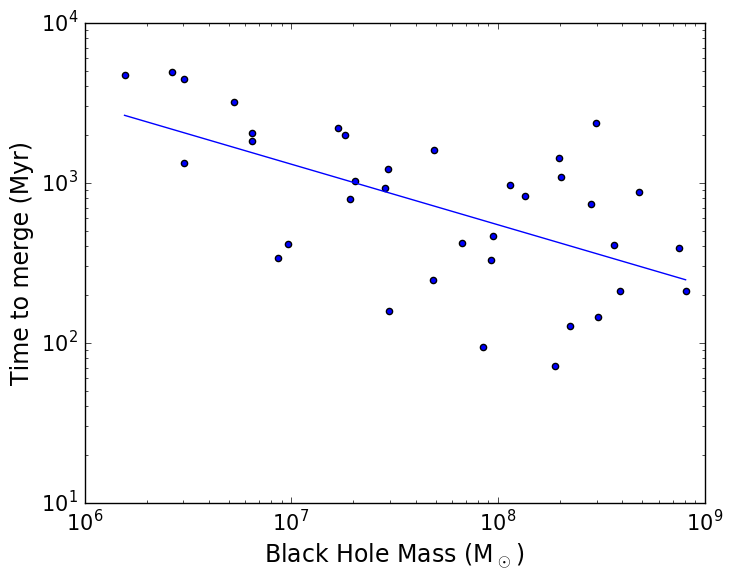
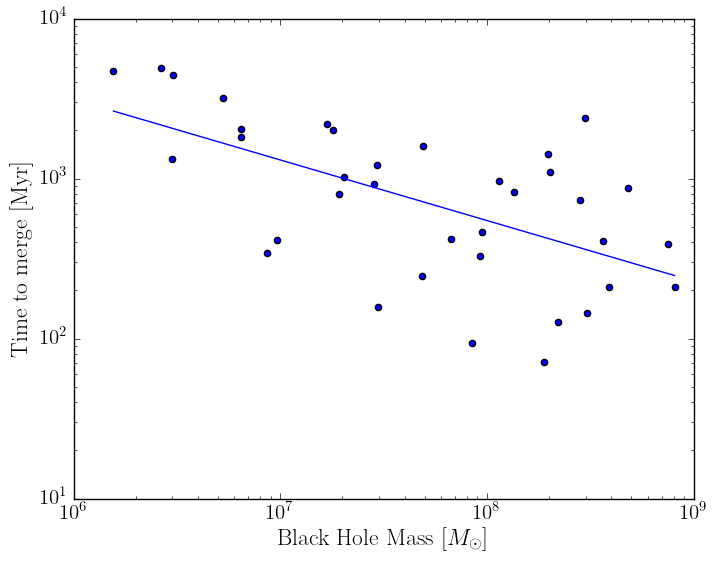
More edits throughout paper.  Standardized fonts in plots.

diff --git a/paper.tex b/paper.tex
@@ -38,6 +38,7 @@
 %\newcommand{\pcm}{\,cm$^{-2}$}	% per cm-squared
 \newcommand{\kms}{\,km\,s$^{-1}$} % kilometres per second
 \newcommand{\bibtex}{\textsc{Bib}\!\TeX} % bibtex. Not quite the correct typesetting, but close enough
+\defcitealias{2011ApJ...741...99C}{Cen+11}
 
 %%%%%%%%%%%%%%%%%%%%%%%%%%%%%%%%%%%%%%%%%%%%%%%%%%
 
@@ -89,7 +90,7 @@ $^{3}$Hubble Fellow\\
 
 
 \begin{abstract}
-We perform follow-up N-body simulations on some of the most massive galaxies extracted from a cosmological simulation of hierarchical structure formation with total masses in the range $10^{12} M_{\sun} < M < 10^{14} M_{\sun}$ from 4 $\gid$ z $\gid$ 0.  After galactic mergers, we track the dynamical evolution of the infalling black holes (BHs) around their host's central BHs.  From 11 different simulations, we find that, of the 86 infalling BHs with masses > XYZ, 36 merge with their host's central BH, 13 are ejected from their host galaxy, and 37 are still orbiting at the end of the simulations.  Across all galaxies, 33 BHs are kicked to a higher orbit after close interactions with the central BH binary or multiple, after which only one of them merged with their hosts.  These orbiting BHs should be detectable by their anomalous (not LMXRB) spectra.  The x-ray luminosities of the orbiting massive BHs at z=0 are in the range $10^{25}-10^{43}$ $erg\ s^{-1}$, with an undetectable median value $10^{32}$ $erg\ s^{-1}$.  However, the most luminous $\sim$$5\%$ should be detectable by existing x-ray facilities.
+We perform follow-up N-body simulations on some of the most massive galaxies extracted from a cosmological simulation of hierarchical structure formation with total masses in the range $10^{12} M_{\sun} < M < 3\times 10^{13} M_{\sun}$ from $4\geq z \geq 0$.  After galactic mergers, we track the dynamical evolution of the infalling black holes (BHs) around their host's central BHs.  From 11 different simulations, we find that, of the 86 infalling BHs with masses > $10^4 M_{\sun}$, 36 merge with their host's central BH, 13 are ejected from their host galaxy, and 37 are still orbiting at $z=0$.  Across all galaxies, 33 BHs are kicked to a higher orbit after close interactions with the central BH binary or multiple, after which only one of them merged with their hosts.  These orbiting BHs should be detectable by their anomalous (not LMXRB) spectra.  The X-ray luminosities of the orbiting massive BHs at z=0 are in the range $10^{27}-10^{43}$ $\mathrm{erg}~\mathrm{s}^{-1}$, with an undetectable median value $10^{32}$ $\mathrm{erg}~\mathrm{s}^{-1}$.  However, the most luminous $\sim$5\% should be detectable by existing X-ray facilities.
 \end{abstract}
 
 
@@ -101,17 +102,17 @@ Galaxy: kinematics and dynamics
 
 
 \section{Introduction}\label{sec:introduction}
-Simulations of structure formation in a $\Lambda$CDM universe show us how the massive galaxies we see today were formed through a myriad of minor and major mergers between (proto) galaxies. As most galaxies are believed to contain central massive black holes even at high redshifts, each of these mergers sets the stage for a potential encounter between supermassive black holes. Here we are going to investigate what happened to those black holes over a timeframe of billions of years.
+Simulations of structure formation in a $\Lambda$CDM universe show us how the massive galaxies we see today were formed through a myriad of minor and major mergers between (proto) galaxies. As most galaxies are believed to contain central massive black holes even at high redshifts, each of these mergers set the stage for a potential encounter between massive black holes. Here we investigate what happened to those black holes over a timeframe of billions of years.
 
-What are possible outcomes for massive black holes during galaxy mergers?  There are three possibilities: they merge with the central massive black hole of the galaxy, they get ejected, or they remain in orbit in the merged galaxy.  Combinations of these options are also possible with the spin induced kick at merger leading to an ejection or extended orbit of the merged black hole.  We now know from pulsar timing measurements (\citet{2008MNRAS.390..192S}, \citet{2018ApJ...856...42S}, \citet{2016APS..APRR18003T}) that the gravitational wave background is probably too low for most galaxy mergers (mass-weighted) (but see \cite{2018NatCo...9..573M}) to lead to BH mergers, but the outcome remains uncertain.  We will argue in this paper that a very common outcome--especially for the lower mass black holes--is for the injected objects to remain as orbiting X-ray sources in normal massive galaxies waiting to be identified by current observational techniques.
+What are possible outcomes for massive black holes during galaxy mergers?  There are three possibilities: they merge or form a binary with the central massive black hole of their new host galaxy, they get ejected through three-body interactions with an existing central black-hole binary, or they remain in orbit in the merged galaxy.  Combinations of these options are also possible with, e.g., the (spin-induced) kick at merger leading to an ejection or extended orbit of the merged black hole. We will argue in this paper that a very common outcome -- especially for lower-mass black holes -- is for the injected BHs to remain as orbiting X-ray sources in their host galaxies, waiting to be identified by current observational techniques. (check if X-1 and X-2 in NGC 1313 are candidates for such objects see https://arxiv.org/pdf/astro-ph/0608066.pdf )
 
-There is no "final parsec problem," and the opposite problem of too many BH mergers is also avoided when it is realized that we are dealing with a small N-body system rather than a series of two-body problems (cf \citealt{2018MNRAS.473.3410R}).
+But how common are encounters of massive black holes?  For galaxies, we know that minor mergers are frequent from the observed evolution of the size and mass of these systems \citep{2010ApJ...718L..73V, 2008ApJ...677L...5V, 2019MNRAS.484..595M}. However, if we assume that all galaxy mergers lead to SMBH mergers we end up overpredicting the  gravitational wave background, as constrained by observations from pulsar timing arrays (PTAs, see \citealt{2008MNRAS.390..192S, 2009MNRAS.394.2255S, 2013MNRAS.433L...1S, 2014ApJ...789..156M, 2015ApJ...799..178K, 2016APS..APRR18003T, 2018ApJ...856...42S, 2018MNRAS.479.4017I, 2018ApJ...863L..36I, 2018NatCo...9..573M}). In fact, dynamical studies of black hole encounters have shown that most encounters between two supermassive black holes will result in a stalling binary, unable to get close enough for gravitational wave emission to drive the merger (cite some papers from David Meritt here).
 
-How common are mergers of massive black holes?  For the galaxies themselves we know that minor mergers are frequent from the observed (\citet{2010ApJ...718L..73V}, \citet{2008ApJ...677L...5V}, \citet{2019MNRAS.484..595M}) evolution of the size and mass of these systems, but assuming that all galaxy mergers lead to SMBH mergers overpredicts the observations of gravitational waves from the pulsar timing arrays (PTAs) (\citet{2008MNRAS.390..192S}, \citet{2009MNRAS.394.2255S}, \citet{2013MNRAS.433L...1S}, \citet{2014ApJ...789..156M}, \citet{2015ApJ...799..178K}, \citet{2018ApJ...856...42S}, \citet{2018MNRAS.479.4017I}, \citet{2018ApJ...863L..36I}).  However, we do not often see multiple SMBHs at the centers of massive ellipticals (but see \citet{2016MNRAS.463.2145C}).  So, what does happen?  One paper (\citet{2018MNRAS.473.3410R}) has indicated that dynamical interactions among multiple orbiting black holes, which will eject a non-negligible fraction of the mass, may solve this problem.  The present paper also addresses this purported dynamical solution, focusing attention on the large fraction of lower mass black holes that remain to be detected as they orbit in massive galaxies.  What we argue in this paper is that, as a result of the N-body interactions among the infalling black holes, some are ejected, some remain in extended orbits and some (the few most massive ones) do in fact merge, but these do not exceed the PTA limits, and some of the orbiting ones might be detectable via their ability to accrete gas and emit radiation.
+However, we do not often see SMBH binaries at the centers of massive ellipticals (but see \citealt{2016MNRAS.463.2145C}).  So, what does happen?  \cite{2018MNRAS.473.3410R} indicate that dynamical interactions among multiple orbiting black holes, which will eject a non-negligible fraction of the mass, may solve this problem.  The present paper also addresses this purported dynamical solution, focusing attention on the large fraction of lower-mass black holes that remain to be detected as they orbit in massive galaxies.  We argue that, as a result of few-body interactions among the resident and infalling black holes, some are ejected, some remain in extended orbits, and some (the few most massive ones) do in fact merge. The merger rates we find do not exceed the PTA limits, and some of the orbiting BHs that our simulations predict to exist may actually be detectable via their ability to accrete gas and emit radiation.
 
-Here we look at the merger history of 11 exemplary galaxies across the galaxy mass spectrum extracted from a cosmological simulation of hierarchical structure formation. We investigate how, after merging with incoming galaxies, SMBHs sink into the cores of the hosts and interact with the resident black hole. We show that gravitational interactions of multiple SMBHs are most probable in high-mass galaxies with total mass $10^{12} M_{\sun} < M < 10^{13} M_{\sun}$. Galaxies with lower masses have too few mergers with SMBH hosting galaxies. Galaxies with higher masses are more extended, making dynamical friction processes less efficient and hence failing to drive SMBHs into the host galaxy core.
+For this study, we look at the merger history of 11 exemplary galaxies across the galaxy mass spectrum extracted from a cosmological simulation of hierarchical structure formation. We investigate how, after merging with incoming galaxies, SMBHs sink into the cores of the hosts and interact with the resident black hole. We show that gravitational interactions of multiple SMBHs are most probable in high-mass galaxies with total mass $10^{12} M_{\sun} < M < 3\times10^{13} M_{\sun}$. Galaxies with lower masses have too few mergers with SMBH hosting galaxies. Galaxies with higher masses are more extended, making dynamical friction processes less efficient and hence failing to drive SMBHs into the host galaxy core.
 
-This paper is organized as follows: in Section \ref{sec:methods} we describe the cosmological simulations from which we use the merger history to set up our idealized numerical simulations. We present the few-body integration code, \textsc{AR-Chain} that we used for our simulations of SMBH dynamics, and the modifications we made to this code in order to deal with a host galaxy's gravitational potential. In Section \ref{sec:results}, we show the results of our 11 exemplary simulations of galaxies growing with time and acquiring new SMBHs. We analyze how the SMBHs spiral into the core of their new host galaxies due to dynamical friction, and how interactions with the host black hole and other orbiting BHs leads to near-ejections or mergers. We then estimate the X-ray luminosities expected of the orbiting black holes.  The final Section \ref{sec:conclusions} contains a discussion of the results and our conclusions.
+This paper is organized as follows: in Section\,\ref{sec:methods} we describe the cosmological simulations from which we use the merger history to set up our idealized numerical simulations. We present the few-body integration code, \textsc{AR-Chain} that we used for our simulations of SMBH dynamics, and the modifications we made to this code in order to deal with a host galaxy's gravitational potential. In Section\,\ref{sec:results}, we show the results of our 11 exemplary simulations of galaxies growing with time and acquiring new SMBHs. We analyze how the SMBHs spiral into the core of their new host galaxies due to dynamical friction, and how interactions with the host black hole and other orbiting BHs leads to near-ejections or mergers. We then estimate the X-ray luminosities expected of the orbiting black holes.  The final Section\,\ref{sec:conclusions} contains a discussion of the results and our conclusions.
 
 \section{Methods}\label{sec:methods}
 %\begin{figure}
@@ -126,59 +127,59 @@ This paper is organized as follows: in Section \ref{sec:methods} we describe the
 %\end{figure*}
 
 \subsection{Overview of simulation}
-Our simulations focus on elliptical galaxies with central SMBHs. The galaxies were given a dark matter background potential using the Stone-Ostriker profile (\citet{2015ApJ...806L..28S}), which is a three-parameter potential-density pair, whose quantities such as density, potential, and binding energy can be written in closed form, having a profile similar to that of a truncated isothermal sphere.  The galaxies were evolved from $4 > z > 0$.  Orbiting black holes were periodically introduced into the "host" galaxy following mergers and their dynamical interaction with the background potential and central SMBH were followed, as described further below.
+Our simulations focus on elliptical galaxies with central SMBHs. The galaxies were given a dark matter background potential using the Stone-Ostriker profile (\citet{2015ApJ...806L..28S}), which is a three-parameter potential-density pair, whose quantities such as density, potential, and binding energy can be written in closed form, having a profile similar to that of a truncated isothermal sphere.  The galaxies were evolved from $4\geq z \geq 0$.  Orbiting black holes were periodically introduced into the "host" galaxy following mergers and their dynamical interaction with the background potential and central SMBH were followed, as described further below.
 
 For the numerical simulations presented here, we used a modified version of the algorithmic chain integrator \textsc{AR-Chain} developed by \citet{2006MNRAS.372..219M}. It uses algorithmic chain regularization for high-precision integration of few-body dynamics, and is capable of handling velocity-dependent forces efficiently. It includes relativistic post-Newtonian terms up to order PN2.5 \citep{2008AJ....135.2398M}.
 
 
 \subsection{Merger tree Data}
-The merger tree data that was used as the input to our simulations is the result of previous work by \citet{2011ApJ...741...99C, 2011ApJ...742L..33C, 2012ApJ...753...17C, 2012ApJ...748..121C, 2013ApJ...770..139C} (hereafter Cen(+11) and known as the LAOZI simulations \citet{2014ApJ...781...38C}), as well as  \citet{2012MNRAS.425..641L} (hereafter Lackner(+12)), and \citet{2015ApJ...799..178K} (hereafter Kulier(+15)).  A brief synopsis of the work that led to our input data is described below.
+The merger tree data that was used as the input to our simulations is the result of previous work by \citet{2011ApJ...741...99C, 2011ApJ...742L..33C, 2012ApJ...753...17C, 2012ApJ...748..121C, 2013ApJ...770..139C}  (known as the LAOZI simulations \citet{2014ApJ...781...38C}), as well as  \citet{2012MNRAS.425..641L}, and \citet{2015ApJ...799..178K}.  A brief synopsis of the work that led to our input data is described below.
 
-Cen(+11) studied the "cosmic downsizing" effect (e.g., \citet{1996AJ....112..839C}) using high-resolution large-scale hydrodynamic galaxy formation simulations.  His work produced physical parameters for galaxies such as position, velocity, total mass, stellar mass, gas mass, mean formation time, mean stellar metallicity, mean gas metallicity, SFR, luminosities, etc.
+\citet{2011ApJ...741...99C} studied the "cosmic downsizing" effect (e.g., \citet{1996AJ....112..839C}) using high-resolution large-scale hydrodynamic galaxy formation simulations.  His work produced physical parameters for galaxies such as position, velocity, total mass, stellar mass, gas mass, mean formation time, mean stellar metallicity, mean gas metallicity, star formation rate, luminosities, etc.
 
-Lackner(+12), using Cen(+11)'s work as a basis, created galactic merger trees that compared the properties of in situ and accreted stellar mass of galaxies at redshift snapshots between $4 > z > 0$.
+\citet{2012MNRAS.425..641L}, using \citet{2011ApJ...741...99C}'s work as a basis, created galactic merger trees that compared the properties of in situ and accreted stellar mass of galaxies at redshift snapshots between $4 > z > 0$.
 
-Kulier(+15) furthered the merger tree data produced by Lackner(+12) by estimating the evolution of the SMBH population, based on assumptions about the relationship between the properties of SMBHs and those of their host galaxies.
+\citet{2015ApJ...799..178K} furthered the merger tree data produced by \citet{2012MNRAS.425..641L} by estimating the evolution of the SMBH population, based on assumptions about the relationship between the properties of SMBHs and those of their host galaxies.
 
 The primary data we extracted from the above work was organized as follows:
 \begin{itemize}
-    \item Galactic properties - Each galaxy was distinguished by an id number, with properties such as stellar mass, dark matter mass, central black hole id number, and orbiting black hole id numbers, recorded at 37 redshift slices between $4 > z > 0$.
+    \item Galactic properties - Each galaxy was distinguished by an id number, with properties such as stellar mass, dark matter (DM) mass, central black hole id number, and orbiting black hole id numbers, recorded at 37 redshift slices between $4 > z > 0$.
     \item Black Hole properties - Each black hole was also distinguished by an id number, with properties such as seed mass, accreted mass, its host galaxy id number, and time after $z=4$ at which the black hole entered its host galaxy, if it was not the central black hole.
 \end{itemize}
 
-The merger tree data from Lackner(+12) and Kulier\-(+15) provided 1,830 galaxies in total.  However, not all the galaxies were suitable for our simulations.  We placed further requirements as follows:
+The merger tree data from \citet{2012MNRAS.425..641L} and \citet{2015ApJ...799..178K} provided 1,830 galaxies in total.  However, not all the galaxies were suitable for our simulations.  We placed further requirements as follows:
 \begin{itemize}
-\item The galaxies had to exist through the entire simulation ($4 > z > 0$).  If they merged with other galaxies, they had to have been the "surviving" galaxy at each merger.
+\item The galaxies had to exist through the entire simulation ($4\geq z \geq 0$).  If they merged with other galaxies, they had to have been the "surviving" galaxy at each merger.
 \item They had to have accumulated orbiting black holes by $z = 0$.
 \end{itemize}
 
-The above criteria narrowed the field of eligible galaxies down to 51.  In considering time and resources, we chose the top 13 galaxies in terms of number of black holes to run the simulations.  The black holes in these galaxies accounted for nearly $84{\%}$ of all orbiting black holes across all the galaxies, so it represented a reasonable balance between completeness and efficiency.
+The above criteria narrowed the field of eligible galaxies down to 51.  In considering time and resources, we chose the 13 galaxies that had the largest number black holes to run the simulations.  The black holes in these galaxies accounted for nearly $84{\%}$ of all orbiting black holes across all the galaxies, so it represented a reasonable balance between completeness and efficiency.
 
-The following cosmological parameters were used in our simulations, consistent with both Lackner(+12) and Kulier(+15):   $\Omega_M = 0.28$, $\Omega_b = 0.046$, $\Omega_\Lambda = 0.72$, $\sigma_8 = 0.82$, $H_0 = 100h^{-1}Mpc^{-1} = 70 km s^{-1} Mpc^{-1}$, and $n = 0.96$.
+The following cosmological parameters were used in our simulations, consistent with both \citet{2012MNRAS.425..641L} and \citet{2015ApJ...799..178K}:   $\Omega_M = 0.28$, $\Omega_b = 0.046$, $\Omega_\Lambda = 0.72$, $\sigma_8 = 0.82$, $H_0 = 100h^{-1}\mathrm{Mpc}^{-1} = 70 \mathrm{km}\;\mathrm{s}^{-1} \mathrm{Mpc}^{-1}$, and $n = 0.96$.
 
 \subsubsection{Stellar Mass Adjustment}
-As we will explain further in Section \ref{Galaxy background potential}, in our simulations orbiting black holes are inserted into the host galaxy at the effective radius, $R_e$, which is partially dependent on stellar mass, $M_*$ (see equation \ref{re}).  For every doubling of the stellar mass, $M_*$, $R_e$ increases by a factor of 1.66.  Additionally, the velocity dispersion at the effective radius, $\sigma(R_e)$, which is used to set the parameter $r_h$ of our dark matter profile, is also dependent on $M_*$.  In this case, a doubling of $M_*$ would increase $\sigma(R_e)$ by a factor of 1.15.  These variations have direct effects on the ability of the orbiting black holes to merge with the central black hole, and thus can affect our merger statistics and resulting characteristic strain calculations, and therefore it is important to estimate our stellar masses with reasonable accuracy.
+As we will explain further in Section \ref{Galaxy background potential}, in our simulations orbiting black holes are inserted into the host galaxy at the effective radius, $R_e$, which is partially dependent on stellar mass, $M_*$ (see Eqn. \ref{re}).  For every doubling of the stellar mass, $R_e$ increases by a factor of 1.66.  Additionally, the velocity dispersion at the effective radius, $\sigma(R_e)$, which is used to set the parameter $r_h$ (see Eqn. \ref{jerry}) of our dark matter profile, is also dependent on $M_*$.  In this case, a doubling of $M_*$ would increase $\sigma(R_e)$ by a factor of 1.15.  These variations have direct effects on the ability of the orbiting black holes to merge with the central black hole, and thus can affect our merger statistics and resulting characteristic strain calculations, and therefore it is important to estimate our stellar masses with reasonable accuracy.
 
 In cosmological simulations it is common to overproduce stellar mass, with a general over-efficiency in the range of 2-4 times those measured in observations (\citet{1996ApJS..105...19K}, \citet{2010MNRAS.404.1111G}, \citet{2010ApJ...725.2312O}).  One typical reason cited for this overproduction is a lack or underestimation of supernova feedback effects in the form of thermal and/or kinetic energy.  However, even when thermal energy from supernova feedback is considered, the effects may be reduced due to the energy being quickly radiated away by rapidly cooling surrounding gas (\citet{1996ApJS..105...19K}).  A second common reason for overproduction of stars in cosmological simulations is a lack of modeling for AGN feedback, which may be responsible for solving the phenomenon called the "cooling flow paradox" (\citet{2001MNRAS.321L..20F}) that suppresses star formation. 
 
-Lackner(+12), which is the source of our stellar masses, noted that the efficiency of star formation in their simulations, defined as $f_*=M_*/M_{DM}(\Omega_{DM}/\Omega_b)$, was approximately 0.6.  Compared with the expected range of $0.10 \loa f_* \loa 0.15$ that they referenced from \citet{2012ApJ...746...95L}, their stellar masses were a factor of roughly 4 times greater.
+\citet{2012MNRAS.425..641L}, which is the source of our stellar masses, noted that the efficiency of star formation in their simulations, defined as $f_\mathrm{bary}=M_*/M_{\mathrm{DM}}(\Omega_\mathrm{DM}/\Omega_\mathrm{b})$ (where $M_\mathrm{DM}$ is the mass of the dark matter halo), was approximately 0.6.  Compared with the expected range of $0.10 \loa f_\mathrm{bary} \loa 0.15$ that they referenced from \citet{2012ApJ...746...95L}, their stellar masses were a factor of roughly 4 times greater.
 
-We also compared the stellar masses from Lackner\-(+12) to  observational and abundance matching data from \citet{2018AstL...44....8K}. Figure \ref{fig:stellar1} is a partial, approximate, replication of their Figure 11 (abundance matching line).  We rescaled our stellar masses at $z=0$ in a lognormal manner about the line in order to match the observed data.  Table \ref{table:gal_char} shows the original and rescaled stellar masses.
+We also compared the stellar masses from \citet{2012MNRAS.425..641L} to  observational and abundance matching data from \citet{2018AstL...44....8K}. Figure \ref{fig:stellar1} is a partial, approximate, replication of their Figure 11 (abundance matching line).  We rescaled our stellar masses at $z=0$ in a lognormal manner about the line in order to match the observed data.  Table \ref{table:gal_char} shows the original and rescaled stellar masses.
 
 \begin{figure}
 %\begin{center}
 \includegraphics[width=0.5\textwidth]{plots/stellar_to_halo_ratio.png}
-\caption{Approximation of Figure 11 from \citet{2018AstL...44....8K}.  Purple dots shown are examples of our rescaled stellar masses}
+\caption{Approximation of Figure 11 from \citet{2018AstL...44....8K}.  $f_\mathrm{bary}$ is the universal baryon fraction as a function of total halo mass.  Purple dots shown are examples of our rescaled stellar masses}
 \label{fig:stellar1}
 %\end{center}
 \end{figure}
 
 \begin{table}
 \begin{center}
-\caption{Galaxy characteristics at z=0. Units are M$\sun$.}
+\caption{Galaxy characteristics at z=0. $M_\mathrm{DM}$ is dark matter mass.  $M_\mathrm{CBH}$ is central black hole mass.  Units are $M_{\odot}$.}
 \begin{tabular} {|c | c | c| c|}
 \hline
-$M_{DM}$ & $M_{CBH}$ & $M_{*} (orig.)$ & $M_{*} (rescaled)$ \\
+$M_\mathrm{DM}$ & $M_\mathrm{CBH}$ & $M_{*} \mathrm{(orig.)}$ & $M_{*} \mathrm{(rescaled)}$ \\
 \hline
  2.85 $\times 10^{13}$ 	&	 1.46 $\times 10^9$	&	5.58 $\times 10^{12}$ 	&	3.30 $\times 10^{11}$  \\
  2.48 $\times 10^{13}$ 	&	 2.40 $\times 10^9$	&	4.80 $\times 10^{12}$ 	&	2.25 $\times 10^{11}$  \\
@@ -209,19 +210,18 @@ Here $\rho_c$ is the central density, $r_c$ is the core radius, and $r_h$ is the
 
 In order to parameterize this profile, $r_c$ was given an initial value of 100 pc, which is reasonable for a cored massive system.  To calculate $r_h$, we began by using the stellar mass to calculate the velocity dispersion at the galaxy's effective radius.  In \citet{2014ApJ...789..156M}, the galaxy's effective radius $R_{e}$ and velocity dispersion $\sigma(R_e)$ at the effective radius are:
 \begin{equation} \label{re}
-R_{e} = 2.5 kpc\left(\frac{M_*}{10^{11}M_{\odot}}\right)^{0.73}(1+z)^{-0.98},
+R_{e} = 2.5 \mathrm{kpc}\left(\frac{M_*}{10^{11}M_{\odot}}\right)^{0.73}(1+z)^{-0.98},
 \end{equation}
 \begin{equation} \label{sig}
-\sigma(R_{e}) = 190km/s\left(\frac{M_{*}}{10^{11}M_{\odot}}\right)^{0.2}(1+z)^{0.47},
+\sigma(R_{e}) = 190\mathrm{km}\;\mathrm{s}^{-1}\left(\frac{M_{*}}{10^{11}M_{\odot}}\right)^{0.2}(1+z)^{0.47},
 \end{equation}
 
-We can then equate the value for $\sigma({R_e})$ obtained from Equation \ref{sig} to the analytic expressions for $\sigma(R_{e})$ in the Stone-Ostriker profile (Eqns 9 and A1-A4).  The only unknown is $r_h$, which we can solve for using a simple recursive Newton method.  Whether $\sigma_{near}$ or $\sigma_{far}$ is used from Stone-Ostriker is determined by whether $R_e$ is less than or greater than $\sqrt{r_c r_h}$.
+We can then equate the value for $\sigma({R_e})$ obtained from Equation \ref{sig} to the analytic expressions for $\sigma$ in the Stone-Ostriker profile (cf. Eqns 9 and A1-A4).  The only unknown is $r_h$, which we can solve for using a simple recursive Newton method.  Whether $\sigma_{near}$ or $\sigma_{far}$ is used from Stone-Ostriker is determined by whether $R_e$ is less than or greater than $\sqrt{r_c r_h}$.
 
 The central density, $\rho_c$, can be found from Equation 5 in Stone-Ostriker:
 \begin{equation} \label{rhoc}
-M_{tot} = \frac{2\pi^2r_{c}^2r_{h}^2\rho_c}{r_h+r_c},
+M_\mathrm{DM} = \frac{2\pi^2r_{c}^2r_{h}^2\rho_c}{r_h+r_c}.
 \end{equation}
-where $M_{tot}$ is the total dark matter mass.
 
 At each iteration in the code, $r_h$ is updated according to the stellar mass and Equations \ref{re} and \ref{sig}.  The core radius, $r_c$, is recalculated only if an orbiting black hole enters within $r_c$.  The work done by diffusion, as described in Section \ref{psd} is calculated, the total potential energy and dynamical friction are updated, and $r_c$ is solved for from Equation 8 in Stone-Ostriker based on conservation of energy.
 
@@ -266,7 +266,7 @@ a_{new} = a\left(1+\frac{32a\,\mbox{d}W}{3\pi GM_{NSC}^2}\right)^{-1}.
 \end{equation}
 
 \subsubsection{Gravitational wave recoils}
-The code \textsc{AR-Chain} includes post-Newtonian terms up to order 2.5. The SMBHs can therefore merge via gravitational wave emission. We include gravitational wave recoils following the prescription outlined in Kulier(+15), which is based on the fitting formula by \citet{2012PhRvD..85h4015L}.  We assume that a merger will be inevitable when the separation between two SMBHs becomes smaller than 1.0x the Schwarzschild radius. At the moment of the merger, we also assume that the spin vectors of the two SBHs are randomly aligned.
+The code \textsc{AR-Chain} includes post-Newtonian terms up to order 2.5. The SMBHs can therefore merge via gravitational wave emission. We include gravitational wave recoils following the prescription outlined in \citet{2015ApJ...799..178K}, which is based on the fitting formula by \citet{2012PhRvD..85h4015L}.  We assume that a merger will be inevitable when the separation between two SMBHs becomes smaller than 1.0x the Schwarzschild radius. At the moment of the merger, we also assume that the spin vectors of the two SBHs are randomly aligned.
 
 A result of the anisotropic emission of gravitational waves is that the merged binary often experiences a linear kick in the opposite direction of the emission of the GW due to conservation of linear momentum. This kick can result in velocities of the merged binary from approximately $200-5000\ km s^{-1}$ (see \citet{2007PhRvL..98w1101G}, \citet{2007PhRvL..98i1101G}, \citet{2007PhRvL..98w1102C}, \citet{2011PhRvL.107w1102L}).  In our simulations, the binaries never stray more than a few tens of parsecs from the nucleus of the host galaxies.
 
@@ -275,7 +275,7 @@ Black holes can also eject each other via strong three-body interactions. We rem
 \subsection{Simulation setup}
 For each galaxy in the simulations, we only used black holes that would theoretically have merged with the center of the host galaxy within a dynamical friction time, $t_{fric}$, of less than 100 times a Hubble time, with $t_{fric}$ defined from \citet{2008gady.book.....B} as:
 \begin{equation}\label{tfric}
-    t_{fric} = \frac{19}{6}\left(\frac{R_e}{5kpc}\right)^2\frac{\sigma_{eff}}{200km\,s^{-1}}\frac{10^8\,M_{\odot}}{M_{bh}} \text{  Gyr}.
+    t_{fric} = \frac{19}{6}\left(\frac{R_\mathrm{e}}{5\mathrm{kpc}}\right)^2\frac{\sigma(R_\mathrm{e})}{200\mathrm{km}\,\mathrm{s}^{-1}}\frac{10^8\,M_{\odot}}{M_\mathrm{BH}} \text{  Gyr},
 \end{equation}
 The orbiting black holes were injected into their host galaxy at redshift z, at a distance from the galactic center of $R_{e}$ (Equation \ref{re}) following galaxy mergers.  Their initial velocity was arbitrarily chosen to be circular, $v_c = \sqrt{GM(R_e)/R_e}$, with $v_x$, $v_y$, and $v_z$ randomly chosen.
 
@@ -294,10 +294,10 @@ Given the log distribution of masses, one can see the general trend of larger ma
 \subsubsection{Mergers}\label{sec:mergers}
 The tendency of larger mass black holes to merge with their host can perhaps be more clearly seen by looking at the merger mass ratio between the incoming black hole and the host.  Figure \ref{fig:q_merge_fraction} displays the fraction of galaxy mergers that result in black hole mergers versus the merger mass ratio, defined as $m_2/m_1$, where $m_2$ is the orbiting black hole and $m_1$ is the host black hole.  The plot monotonically increases with increasing mass ratio, reaching nearly unity for mass ratio of $10^{-1}$, meaning nearly all galaxy mergers with a black hole mass ratio greater than $10^{-1}$ resulted in the orbiting black hole merging with the host.
 
-In figure \ref{fig:time_to_merge} we present the time it took for the merging guest black holes to merge with their host.  As can be seen in the plot, although there is a fair amount of variation, the general trend is a decreasing time to merge as orbiting black hole mass increases.
+In figure \ref{fig:time_to_merge} we present the time it took for the guest black holes to merge with their host.  As can be seen in the plot, although there is a fair amount of variation, the general trend is a decreasing time to merge as orbiting black hole mass increases.
 
 \subsubsection{Kicked, Ejected and Orbiting Black Holes}\label{sec:kicked_orbiting}
-Of the 37 orbiting black holes at $z=0$, 18 of them were kicked to higher orbits at some point in their traversal of their host galaxy.  If one counts the 13 ejected black holes, then of the 50 SMBHs that had not eventually merged with their host, 32 of them were kicked out of the galactic core as a result of three-body interactions.  If they did not merge, it was not for a lack of effort.
+Of the 37 orbiting black holes at $z=0$, 18 of them were kicked to higher orbits during traversal of their host galaxy.  If one counts the 13 ejected black holes, then of the 50 SMBHs that had not eventually merged with their host, 32 of them were kicked out of the galactic core as a result of three-body interactions.  If they did not merge, it was not for a lack of effort.
 
 Figure \ref{fig:kicked_stats} shows the mass distribution of kicked and not-kicked black holes, including those that merged and those that did not merge.  The vast majority of larger SMBHs ($\goa\, 10^7\, M_{\odot}$) were not kicked to higher orbits nor ejected from their galaxies, which at least partly explains why most of the merged SMBHs are in the greater mass range.  In contrast, most of the SMBHs below $10^7\, M_{\odot}$ are kicked (with a few of them being ejected).  In our simulations, no black holes that are kicked to higher orbits ever returned to merge with their central host SMBH.
 
@@ -306,7 +306,7 @@ Figure \ref{fig:mvr} is a realization of the final radii of the remaining wander
 \begin{figure}
 \begin{center}
 \includegraphics[width=0.5\textwidth]{plots/"Summary Results All Galaxies".png}
-\caption{Histogram of merged, ejected, and orbiting SMBHs at z=0 as a function of BH mass.  Colored arrows along x-axis represent median masses of respective sets.}
+\caption{Histogram of merged, ejected, and orbiting SMBHs at z=0 as a function of BH mass.  Colored arrows along upper x-axis represent median masses of respective sets.}
 \label{fig:meosmbh}
 \end{center}
 \end{figure}
@@ -330,7 +330,7 @@ Figure \ref{fig:mvr} is a realization of the final radii of the remaining wander
 \begin{figure}
 \begin{center}
 \includegraphics[width=0.5\textwidth]{plots/kicked_stats.png}
-\caption{Histogram of kicked and not-kicked SMBHs at z=0.  Colored arrows along x-axis represent median masses of respective sets.}
+\caption{Histogram of kicked and not-kicked SMBHs at z=0.  Colored arrows along upper x-axis represent median masses of respective sets.}
 \label{fig:kicked_stats}
 \end{center}
 \end{figure}
@@ -364,13 +364,13 @@ We compute the x-ray luminosity of the hot gas in the galaxies, adapting Equatio
 The integral evaluates to ${\pi}r_c^3/16$.  $m_p$ is the mass of a proton and $\mu$ is the mean molecular weight.  To calculate $\mu$, we use metallicity $Z=2Z_{\odot}=0.0268$, mass fraction of Helium $Y=Y_{\odot}=0.2485$, and mass fraction of Hydrogen $X=0.7247$.  This results in $\mu=0.606$.
 
 \subsection{Black Hole Luminosity}
-The x-ray temperature versus sigma relation from Table 2 of  \citet{2018ApJ...857...32B} was fitted according to:
+The x-ray temperature versus central velocity dispersion relation from Table 2 of  \citet{2018ApJ...857...32B} was fitted according to:
 \begin{equation}
-    T_x = 10^{2.50*log(\sigma) - 6.06} \text{  kev}.
+    T_x = 10^{2.50*log(\sigma_c) - 6.06} \text{  keV}.
 \end{equation}
 Central gas density, ${\rho}_0$ was also fitted from Table 3 of \citet{2018ApJ...857...32B} according to:
 \begin{equation}
-    \rho_0 = 10^{0.6*log(\sigma) - 25} \text{  g cm}^{-3}.
+    \rho_0 = 10^{0.6*log(\sigma_c) - 25} \text{  g cm}^{-3}.
 \end{equation}
 The core radius of the gas model, ${r_c}$ is:
 \begin{equation}
@@ -389,7 +389,7 @@ where $m_p$ is the proton mass.
 
 The net black hole mass accretion rate is approximated by \citet{2018MNRAS.476.1412I} and \citet{2019MNRAS.486.5377I}:
 \begin{equation}
-    \dot{M}_{acc} = f\frac{4{\pi}G^2M^2\rho}{(C_s^2+v^2)^{3/2}} \text{  M}_\odot \text{ Myr}^{-1},
+    \dot{M}_{acc} = f\frac{4{\pi}G^2M_\mathrm{BH}^2\rho}{(C_s^2+v^2)^{3/2}} \text{  M}_\odot \text{ Myr}^{-1},
 \end{equation}
 where f is a factor giving the decline in accretion, interior to the BH radius due to convective (i.e., inefficient) accretion, as calculated \citet{2019MNRAS.486.5377I}, cf. eq 13.  Additionally, $M$ is black hole mass, $G$ is the gravitational constant, and $v$ is the black hole velocity.
 
@@ -449,7 +449,7 @@ Figure \ref{fig:wui} shows the difference in luminosity when taking into account
 \end{figure}
 
 \section{Conclusions}\label{sec:conclusions}
-We performed N-body simulations on 11 galaxies ranging in mass between $10^{12}$ M$_{\sun}$ < M < $10^{13}$ M$_{\sun}$, from 4 $\gid$ z $\gid$ 0.  A total of 86 orbiting black holes were followed in our simulations, resulting in 42$\%$ mergers with their host galaxy, while another 43$\%$ remained in orbit at $z=0$.  Those remaining orbiting black holes had x-ray luminosities in the range of $10^{25}-10^{43}$ $erg\ s^{-1}$.  The median luminosity of $10^{32} erg\ s^{-1}$ would be undetectable with present instruments, although the top $5\%$ most luminous from this set could be detectable.
+We performed N-body simulations on 11 galaxies ranging in mass between $10^{12}$ M$_{\sun}$ < M < 3$\times$ $10^{13}$ M$_{\sun}$, from 4 $\gid$ z $\gid$ 0.  A total of 86 orbiting black holes were followed in our simulations, resulting in 42$\%$ mergers with their host galaxy's resident black hole, while another 43$\%$ remained in orbit at $z=0$.  Those remaining orbiting black holes had x-ray luminosities in the range of $10^{25}-10^{43}$ $erg\ s^{-1}$.  The median luminosity of $10^{32} erg\ s^{-1}$ would be undetectable with present instruments, although the top $5\%$ most luminous from this set could be detectable.
 
 \section{Acknowledgements}
 The authors would like to thank Andrea Kulier and Claire Lackner for providing merger tree data. AHWK acknowledges support by NASA through Hubble Fellowship grant HST-HF-51323.01-A awarded by the Space Telescope Science Institute, which is operated by the Association of Universities for Research in Astronomy, Inc., for NASA, under contract NAS 5-26555.
